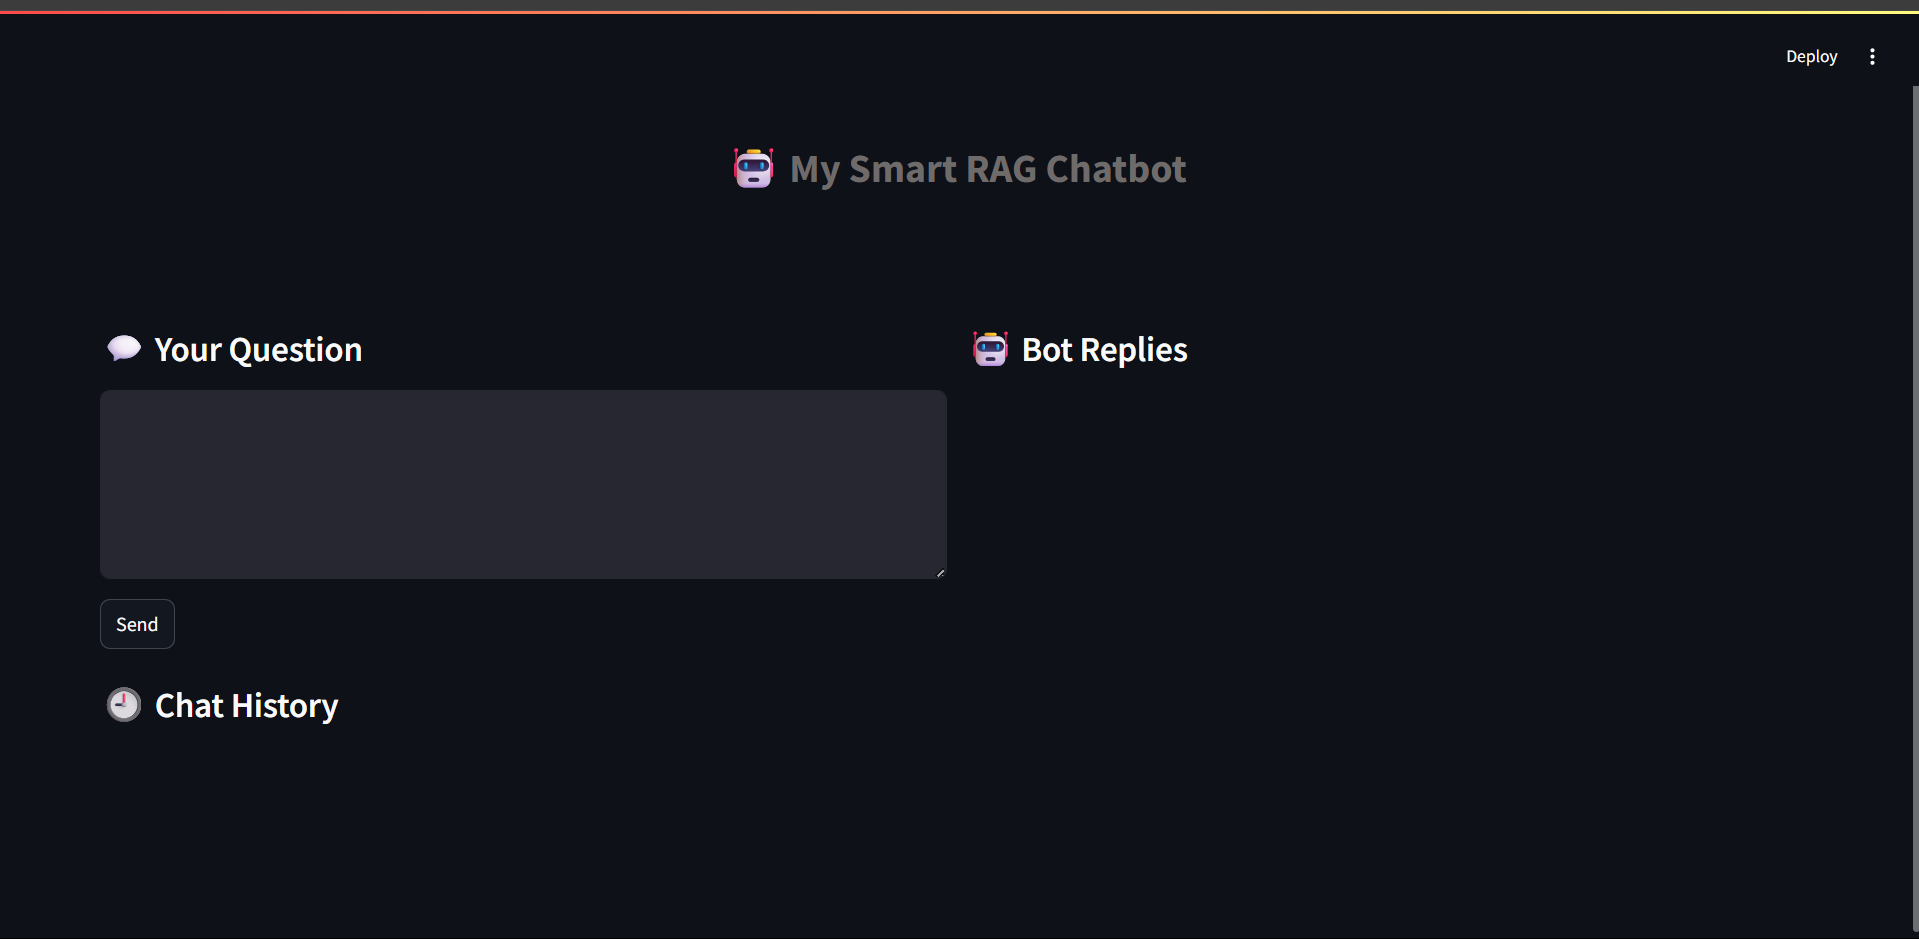
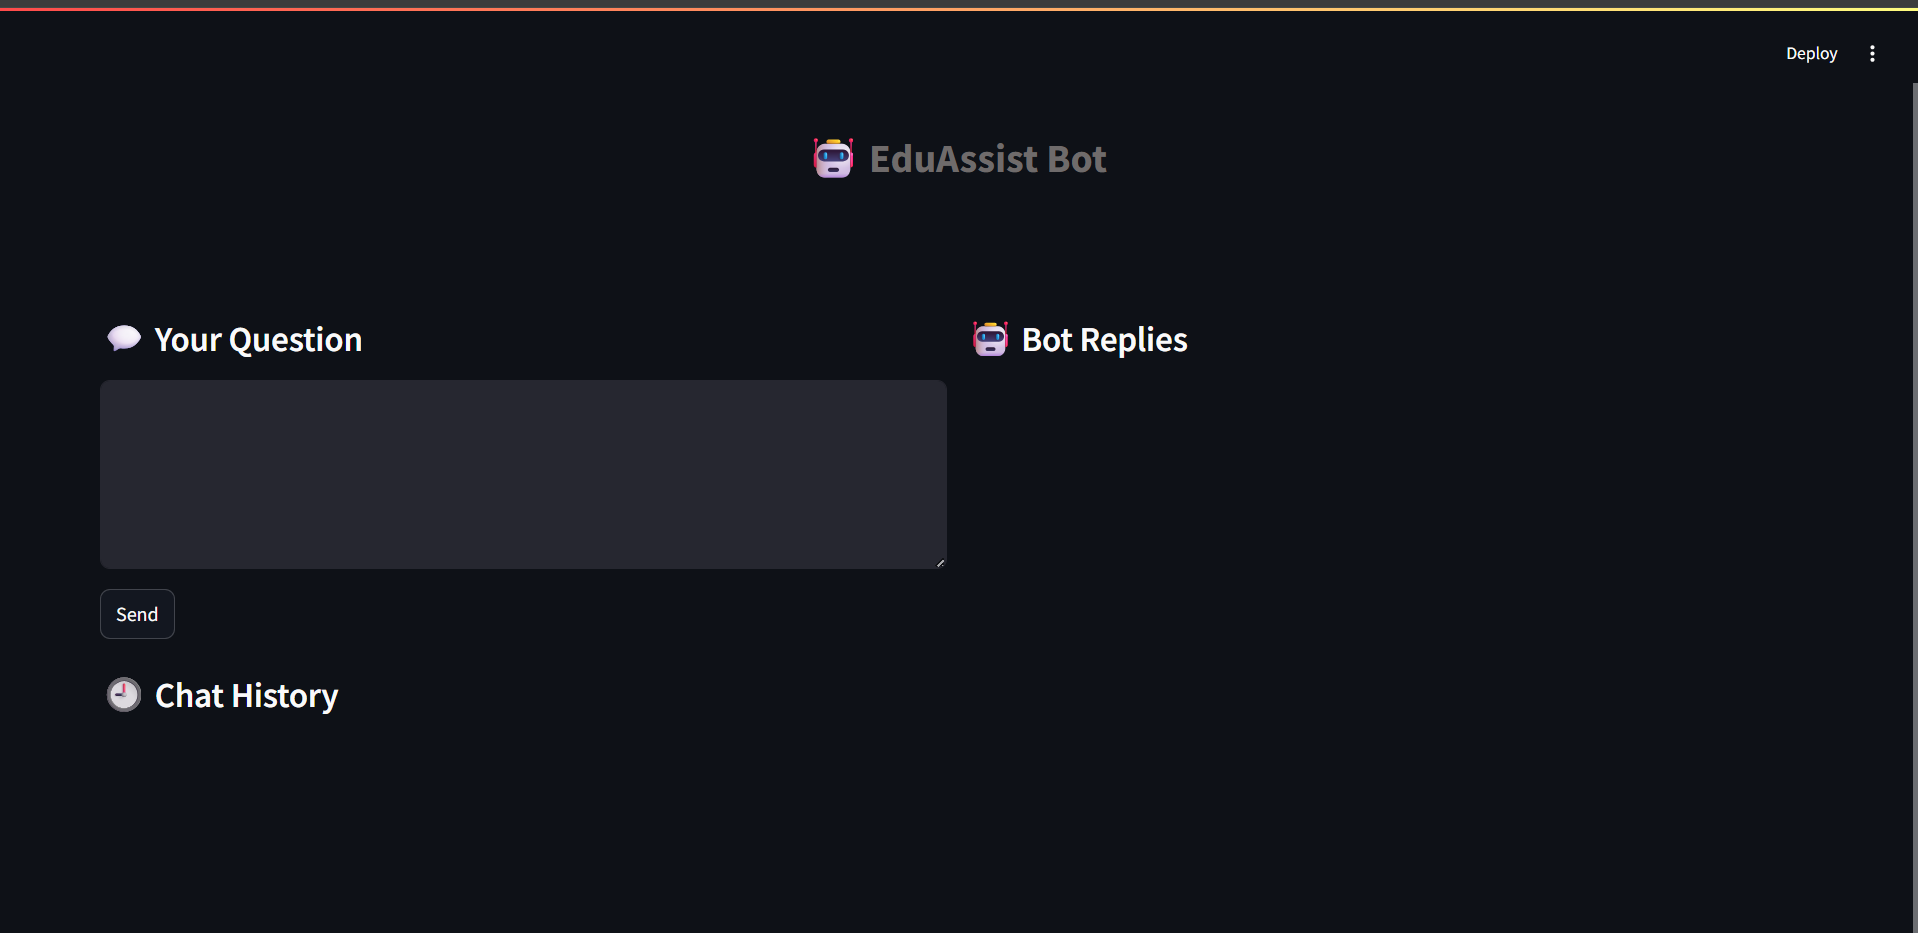
`Update UI and app.py to reflect name change from RAG Chatbot to EduAssist`

diff --git a/app.py b/app.py
@@ -8,7 +8,7 @@ st.set_page_config(layout="wide")
 with open("styles.css") as f:
     st.markdown(f"<style>{f.read()}</style>", unsafe_allow_html=True)
 
-st.markdown('<div class="chat-title">🤖 My Smart RAG Chatbot</div>', unsafe_allow_html=True)
+st.markdown('<div class="chat-title">🤖 EduAssist Bot</div>', unsafe_allow_html=True)
 st.markdown('<div class="chat-wrapper">', unsafe_allow_html=True)
 
 # Wrapper for vertical centering

diff --git a/readme.md b/readme.md
@@ -1,4 +1,4 @@
-# RAG Chatbot — Retrieval-Augmented Generation Chatbot
+# EduAssist: RAG Chatbot — Retrieval-Augmented Generation Chatbot
 
 ## Overview
 
